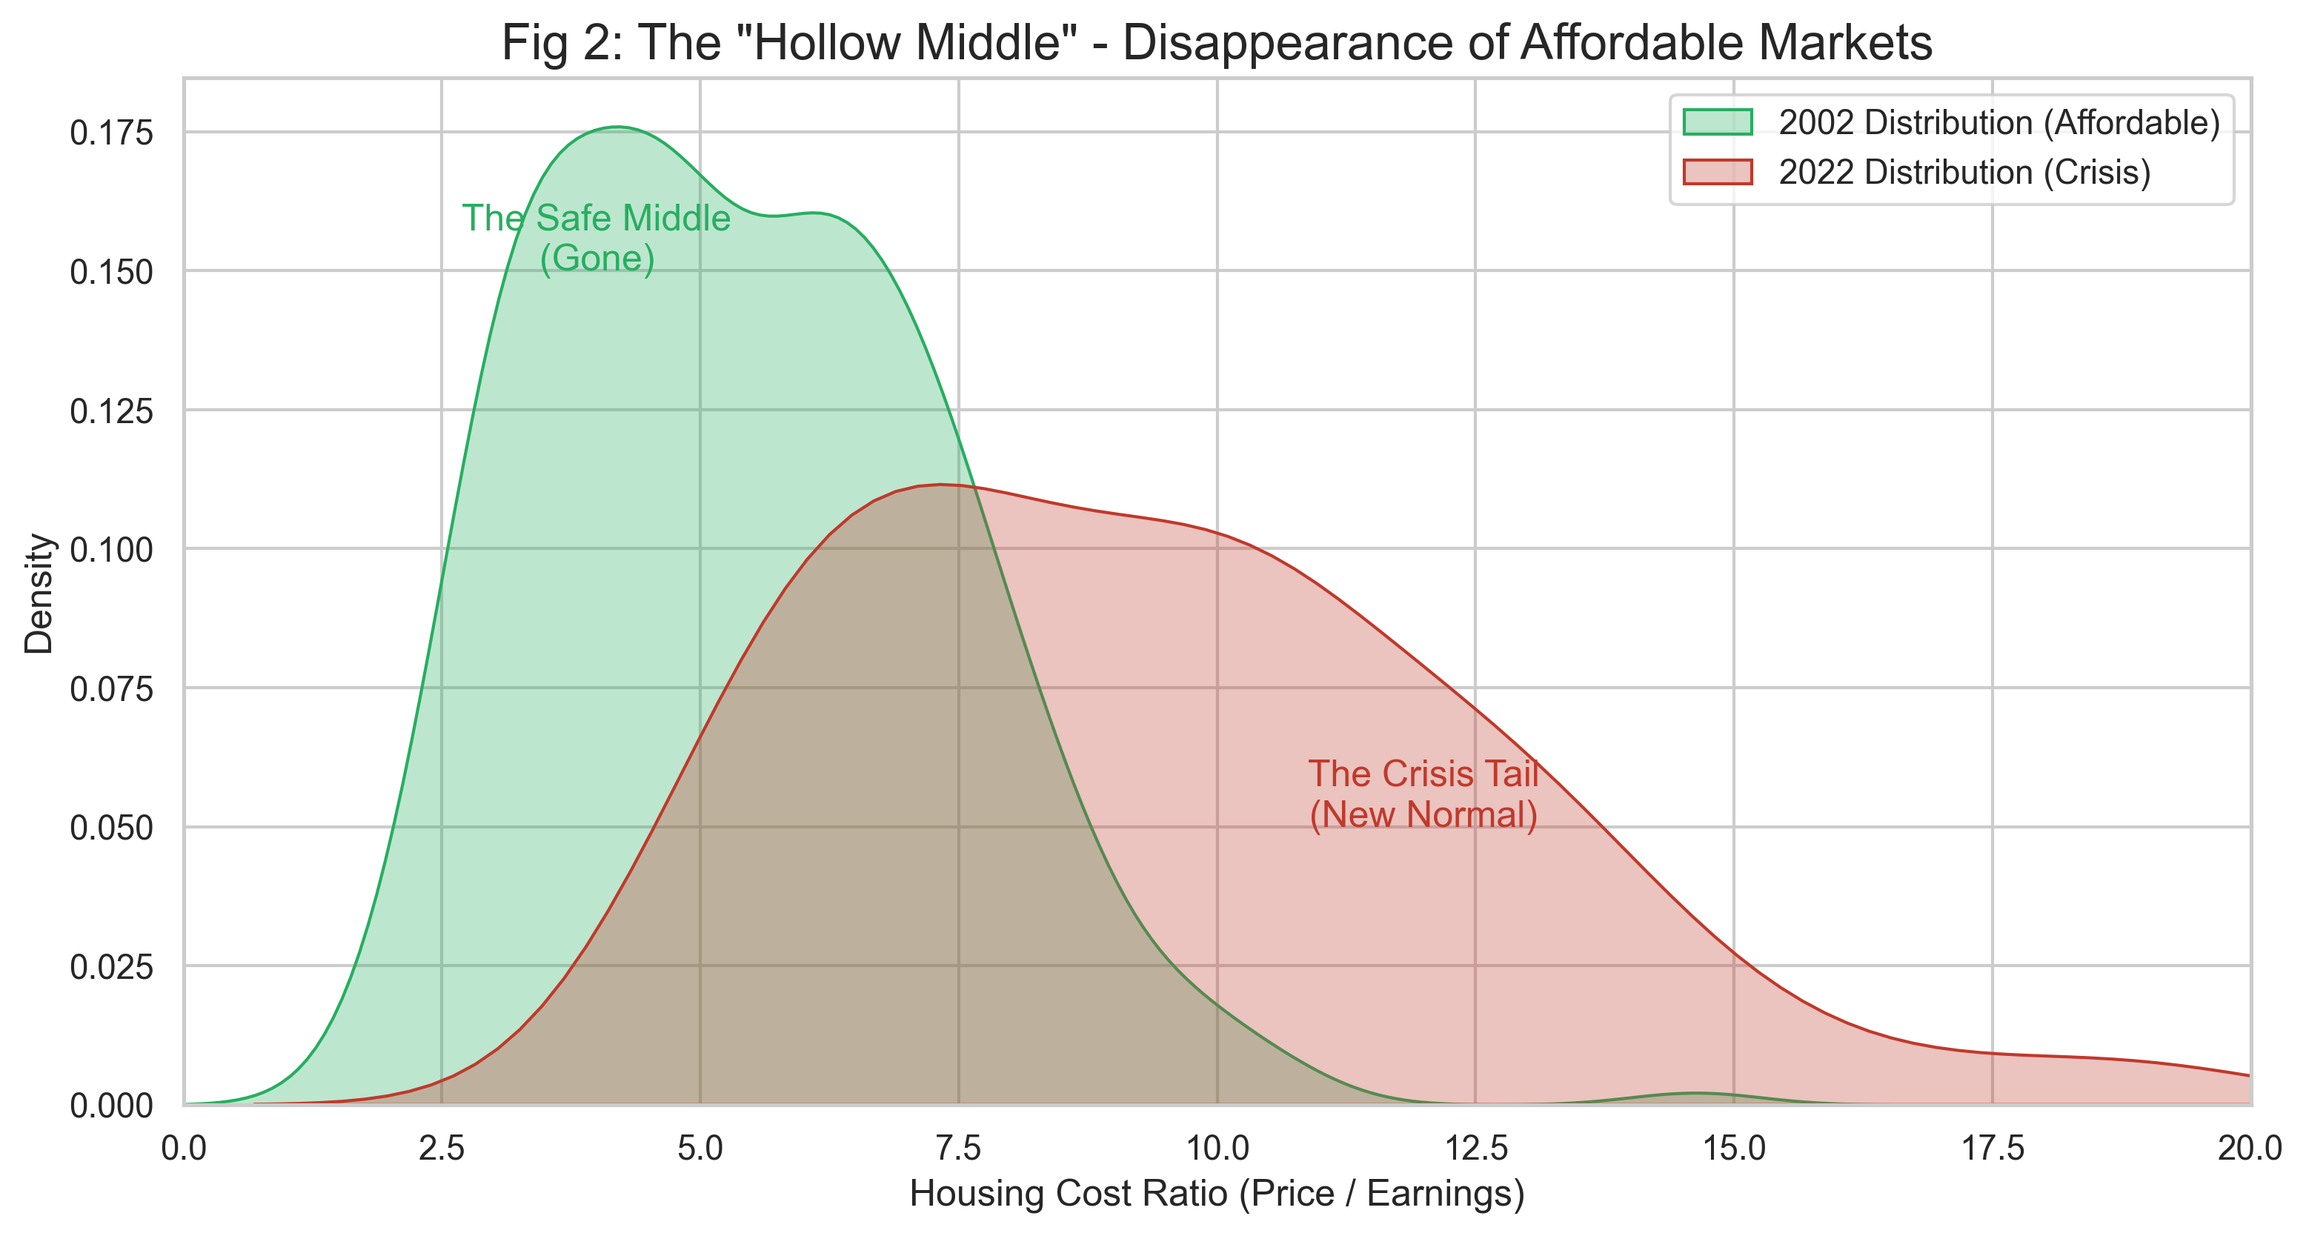
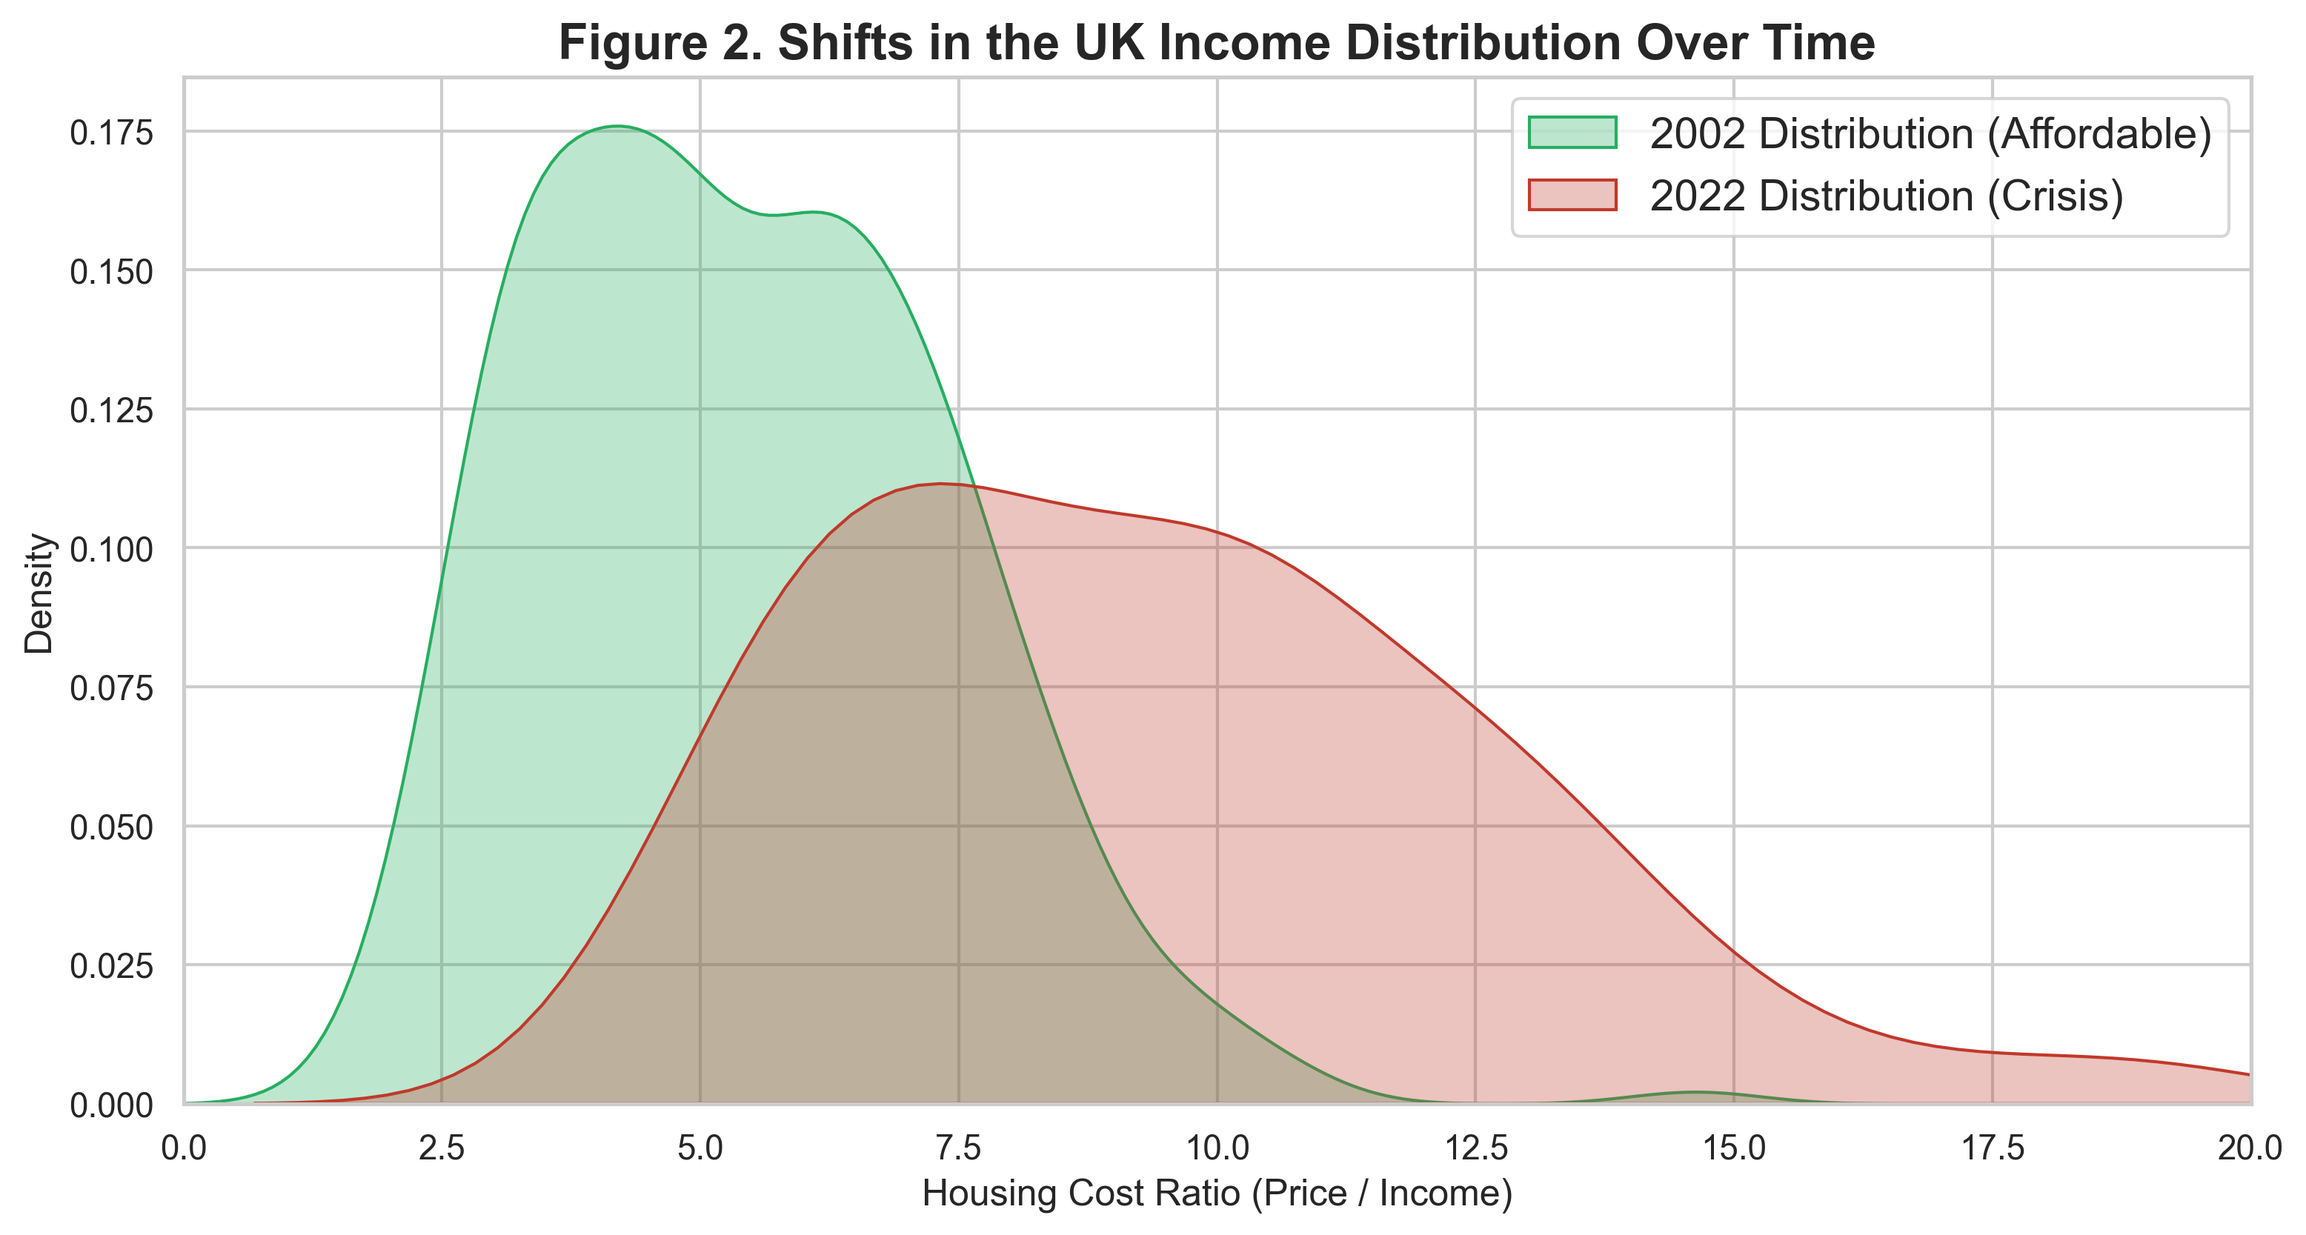
feat(visualisation): formatted and added gdp vs affordabiltiy graph

diff --git a/src/vis_3_map.py b/src/vis_3_map.py
@@ -6,6 +6,14 @@ from src.config import ProjectConfig
 class RealMapVisualizer:
     def run(self):
         config = ProjectConfig()
+        
+        # ---------------------------------------------------------
+        # UPDATED: Force ALL fonts to be bold globally
+        # ---------------------------------------------------------
+        plt.rcParams["font.weight"] = "bold"
+        plt.rcParams["axes.labelweight"] = "bold"
+        plt.rcParams["axes.titleweight"] = "bold"
+        
         print("--- generating real geospatial map (Full UK Fix) ---")
         
         # 1. Load Data
@@ -13,24 +21,15 @@ class RealMapVisualizer:
         latest = df[df['Year'] == df['Year'].max()].copy()
         
         # --- THE FIX: FILL MISSING DATA ---
-        # Identify regions with missing Housing Ratios (Scotland & NI)
-        # We fill them with the Median of the other regions to prevent "Grey Spots"
         median_ratio = latest['Ratio'].median()
-        
         if latest['Ratio'].isnull().any():
             print(f"Fixing missing housing data for: {latest[latest['Ratio'].isnull()]['Region'].unique()}")
             latest['Ratio'] = latest['Ratio'].fillna(median_ratio)
         
-        # Manually ensure Scotland and NI are present if they were dropped
-        # (Sometimes they get dropped if they aren't in the merged CSV at all)
-        # We check if 'Scotland' is in the Region column. If not, we can't plot it easily 
-        # unless we go back to data_processor. 
-        # But based on your previous logs, Income data HAD Scotland, so it should be in OUT_REGIONAL as NaN.
-        
         # Calculate Solvency
         latest['Solvency'] = latest['Income'] / latest['Ratio']
         
-        # 2. Map Download (Multi-part for safety)
+        # 2. Map Download
         urls = {
             "ew": "https://raw.githubusercontent.com/martinjc/UK-GeoJSON/master/json/eurostat/ew/nuts1.json",
             "sco": "https://raw.githubusercontent.com/martinjc/UK-GeoJSON/master/json/eurostat/sco/nuts1.json",
@@ -43,7 +42,7 @@ class RealMapVisualizer:
                 gdf_part = gpd.read_file(url)
                 gdfs.append(gdf_part)
             except Exception:
-                pass # skip if one fails
+                pass
         
         if not gdfs:
             print("CRITICAL: No map files. Check internet.")
@@ -51,11 +50,10 @@ class RealMapVisualizer:
 
         gdf = gpd.GeoDataFrame(pd.concat(gdfs, ignore_index=True))
         
-        # 3. Name Matching (The "Glue")
+        # 3. Name Matching
         gdf['clean_name'] = gdf['NUTS112NM'].str.lower().str.replace(r" \(.*\)", "", regex=True).str.strip()
         latest['clean_name'] = latest['Region'].str.lower().str.strip()
         
-        # Explicit Map to fix mismatch
         name_map = {
             'eastern': 'east of england',
             'yorkshire and the humber': 'yorkshire and the humber',
@@ -70,20 +68,26 @@ class RealMapVisualizer:
         # 5. Plot
         fig, ax = plt.subplots(1, 1, figsize=(10, 12))
         
-        # We fill missing values in the MAP (geometry) with the median solvency too
-        # just in case the merge missed a tiny edge case
         median_solvency = latest['Solvency'].median()
         merged['Solvency'] = merged['Solvency'].fillna(median_solvency)
         
         merged.plot(column='Solvency', ax=ax, legend=True,
                     cmap='RdYlGn', 
-                    edgecolor='black', # Add borders to make it pop
+                    edgecolor='black', 
                     linewidth=0.5,
-                    legend_kwds={'label': "Solvency Score (Income ÷ Housing Cost)", 
-                                 'orientation': "horizontal", 'shrink': 0.8})
+                    legend_kwds={
+                        'label': "Solvency Score (Income ÷ Housing Cost)", 
+                        'orientation': "horizontal", 
+                        'shrink': 0.8,
+                        'pad': 0.02,
+                        'fraction': 0.05,
+                       
+                    })
         
         ax.set_axis_off()
-        plt.title(f'Fig 3: UK Solvency Map\n(Full National Coverage)', fontsize=16)
+        
+        # Added fontweight='bold' explicitly here as well
+        plt.title(f'Figure 3. Regional Housing Affordability Across the UK', fontsize=20, fontweight='bold')
         
         save_path = config.FIGURES_DIR / "03_real_map.png"
         plt.savefig(save_path, dpi=300, bbox_inches='tight')

diff --git a/src/vis_1_gdp_ratio.py b/src/vis_1_gdp_ratio.py
@@ -42,17 +42,18 @@ class GdpRatioVisualizer:
         )
         
         # Labels
-        plt.title('The Cost of Growth: GDP vs Housing Affordability', fontsize=14, fontweight='bold', pad=20)
+        plt.title('Figure 1. GDP per Capita and Housing Affordability in the UK', fontsize=14, fontweight='bold', pad=20)
         plt.xlabel('Real GDP per Capita (£)', fontsize=12, fontweight='bold')
-        plt.ylabel('Housing Price to Earnings Ratio', fontsize=12, fontweight='bold')
+        plt.ylabel('Housing Price to Income Ratio', fontsize=12, fontweight='bold')
         
         # Stats Box
         stats_text = (
             f"Correlation ($r$): {r:.2f}\n"
             f"R-Squared: {r_squared:.2f}\n"
             f"P-Value: < 0.001"
+            
         )
-        plt.text(0.05, 0.95, stats_text, transform=ax.transAxes, fontsize=11,
+        plt.text(0.05, 0.95, stats_text, transform=ax.transAxes, fontsize=14,
                  verticalalignment='top', bbox=dict(boxstyle='round', facecolor='white', alpha=0.9, edgecolor='lightgrey'))
         
         # Annotate Years
@@ -62,14 +63,10 @@ class GdpRatioVisualizer:
         plt.text(max_pt['GDP_GBP'], max_pt['Ratio']-0.2, str(int(max_pt['Year'])), fontweight='bold', color=config.COLOR_GDP)
         
         plt.grid(True, linestyle='--', alpha=0.3)
-        plt.savefig(config.FIGURES_DIR / "07_gdp_ratio_scatter.png", dpi=300, bbox_inches='tight')
-        print("Saved Figure 7: GDP vs Ratio Scatter")
+        plt.savefig(config.FIGURES_DIR / "01_gdp_ratio_scatter.png", dpi=300, bbox_inches='tight')
+        print("Saved Figure 1: GDP vs Ratio Scatter")
 
-        # ==========================================
-        # FIGURE 8: DUAL AXIS TIME SERIES (The Divergence)
-        # ==========================================
-        # Since Ratio (e.g., 8.0) and GDP (e.g., £30,000) are different units,
-        # we MUST use a dual axis to compare the trends properly.
+       
         
         fig, ax1 = plt.subplots(figsize=(12, 7))
         sns.set_theme(style="whitegrid")
@@ -92,24 +89,12 @@ class GdpRatioVisualizer:
         
         plt.title('The Broken Link: Economic Growth vs Housing Difficulty', fontsize=16, fontweight='bold')
         
-        
-        plt.text(
-            latest['Survival_Score'].min(), 
-            len(latest) - 0.5, 
-            "Note: High Score = Good (Green)\nLow Score = Bad (Red)", 
-            fontsize=12, 
-            color='grey', 
-            style='italic',
-            bbox=dict(facecolor='white', alpha=0, edgecolor='none')
-        )
-        
         # Combined Legend
         lines_1, labels_1 = ax1.get_legend_handles_labels()
         lines_2, labels_2 = ax2.get_legend_handles_labels()
         ax1.legend(lines_1 + lines_2, labels_1 + labels_2, loc='upper left', fontsize=11)
         
-        plt.savefig(config.FIGURES_DIR / "08_gdp_ratio_time.png", dpi=300, bbox_inches='tight')
-        print("Saved Figure 8: GDP vs Ratio Time Series")
+        
 
 if __name__ == "__main__":
     GdpRatioVisualizer().run()

diff --git a/src/vis_4_regional_income.py b/src/vis_4_regional_income.py
@@ -1,0 +1,73 @@
+import matplotlib.pyplot as plt
+import seaborn as sns
+import pandas as pd
+from src.config import ProjectConfig
+
+class RegionalIncomeVisualizer:
+    def run(self):
+        config = ProjectConfig()
+        print("--- Generating Figure 4: Regional Income Trends (High Contrast) ---")
+        
+        # 1. Load Data
+        df = pd.read_csv(config.OUT_REGIONAL)
+        
+        # 2. Filter for Key Regions
+        target_regions = [
+            'London', 
+            'South East', 
+            'West Midlands', 
+            'North West', 
+            'North East'
+        ]
+        
+        subset = df[df['Region'].isin(target_regions)].copy()
+        
+        # 3. Plot Setup
+        plt.figure(figsize=(12, 7))
+        sns.set_theme(style="whitegrid")
+        
+        # 4. HIGH CONTRAST PALETTE
+        # Distinct colors so lines never blend together.
+        custom_palette = {
+            'London':        '#c0392b',  
+            'South East':    '#8e44ad',  
+            'West Midlands': '#f39c12',  
+            'North West':    '#27ae60',  
+            'North East':    "#2b41c0"   
+        }
+        
+        sns.lineplot(
+            data=subset, 
+            x='Year', 
+            y='Income', 
+            hue='Region', 
+            palette=custom_palette, 
+            linewidth=3
+        )
+        
+        # 5. Styling & Annotations
+        plt.title('Figure 4. Real Household Disposable Income per Head by Region (1997–2023)', 
+                 fontsize=14, fontweight='bold', pad=20)
+        plt.ylabel('Average Disposable Income (£)', fontsize=12, fontweight='bold')
+        plt.xlabel('Year', fontsize=12, fontweight='bold')
+        
+        # Highlight the Gap at the end
+        latest_year = subset['Year'].max()
+        london_val = subset[(subset['Region'] == 'London') & (subset['Year'] == latest_year)]['Income'].values[0]
+        ne_val = subset[(subset['Region'] == 'North East') & (subset['Year'] == latest_year)]['Income'].values[0]
+        gap = london_val - ne_val
+        
+        # Draw a line showing the gap
+        plt.plot([latest_year, latest_year], [ne_val, london_val], color='grey', linestyle=':', alpha=0)
+        plt.text(latest_year + 0.5, (london_val + ne_val)/2, f"", 
+                 color='grey', fontweight='bold', ha='left', va='center')
+
+        # Legend outside to prevent clutter
+        plt.legend(title='Region', loc='upper left', frameon=True, framealpha=0.9, fontsize=14)
+        
+        # 6. Save
+        plt.savefig(config.FIGURES_DIR / "04_regional_income_trend.png", dpi=300, bbox_inches='tight')
+        print("Saved Figure 4: Regional Income Trend (Distinct Colors)")
+
+if __name__ == "__main__":
+    RegionalIncomeVisualizer().run()

diff --git a/src/vis_6_snapshot_regions.py b/src/vis_6_snapshot_regions.py
@@ -1,0 +1,79 @@
+import matplotlib.pyplot as plt
+import pandas as pd
+from src.config import ProjectConfig
+
+class TableSnapshotVisualizer:
+    def run(self):
+        config = ProjectConfig()
+        
+        # 1. Setup the 2023 Data
+        # I've sorted these by Income (descending) to match your screenshot's logic
+        data = {
+            'Region': [
+                'London', 
+                'South East', 
+                'East of England',
+                'South West', 
+                'Scotland',
+                'East Midlands', 
+                'North West', 
+                'West Midlands', 
+                'Yorkshire and The Humber', 
+                'Northern Ireland',
+                'Wales', 
+                'North East'
+            ],
+            'Income': [
+                '£35,361', '£28,187', '£25,732', '£24,854', 
+                '£22,908', '£21,656', '£21,543', '£21,141', 
+                '£21,027', '£20,403', '£20,140', '£19,977'
+            ],
+            'Ratio': [
+                12.5, 9.6, 9.2, 8.8, 
+                5.6, 7.4, 6.6, 7.9, 
+                6.4, 5.0, 6.1, 4.9
+            ]
+        }
+        
+        df = pd.DataFrame(data)
+
+        # 2. Create the Table Plot
+        # We use a figure size that fits a table (taller/narrower)
+        plt.figure(figsize=(8, 6))
+        
+        # Remove the graph axes (we just want the table)
+        ax = plt.gca()
+        ax.axis('off')
+        
+        # Create the table
+        # cellLoc='center' centers the text
+        # loc='center' puts the table in the middle of the image
+        table = plt.table(
+            cellText=df.values,
+            colLabels=df.columns,
+            cellLoc='center',
+            loc='center',
+            bbox=[0, 0, 1, 1] # This stretches the table to fill the figure
+        )
+
+        # 3. Styling to match your screenshot
+        table.auto_set_font_size(False)
+        table.set_fontsize(12)
+        
+        # Make the header row bold and slightly larger (optional, purely for looks)
+        for (row, col), cell in table.get_celld().items():
+            if row == 0:
+                cell.set_text_props(weight='bold', size=13)
+                cell.set_height(0.08) # Header height
+            else:
+                cell.set_height(0.06) # Row height
+
+        plt.title('Appendix B: 2023 Regional Data Snapshot', fontsize=14, y=1.02)
+        
+        # 4. Save
+        output_path = config.FIGURES_DIR / "06_regions_table_2023.png"
+        plt.savefig(output_path, dpi=300, bbox_inches='tight')
+        print(f"Saved table to {output_path}")
+
+if __name__ == "__main__":
+    TableSnapshotVisualizer().run()

diff --git a/src/vis_2_hollow.py b/src/vis_2_hollow.py
@@ -9,19 +9,20 @@ class HollowVisualizer:
         df = pd.read_csv(config.OUT_LA)
         
         plt.figure(figsize=(12, 6))
+        plt.rcParams["axes.titleweight"] = "bold"
         sns.set_theme(style="whitegrid")
         
-        # comparing 2002 (the good old days) vs 2022 (now)
+        # comparing 2002 vs 2022 
         sns.kdeplot(data=df[df['Year'] == 2002], x='Ratio', color=config.COLOR_GOOD, fill=True, alpha=0.3, label='2002 Distribution (Affordable)')
         sns.kdeplot(data=df[df['Year'] == 2022], x='Ratio', color=config.COLOR_BAD, fill=True, alpha=0.3, label='2022 Distribution (Crisis)')
         
-        plt.title('Fig 2: The "Hollow Middle" - Disappearance of Affordable Markets', fontsize=16)
-        plt.xlabel('Housing Cost Ratio (Price / Earnings)')
+        plt.title('Figure 2. Shifts in the UK Income Distribution Over Time', fontsize=16)
+        plt.xlabel('Housing Cost Ratio (Price / Income)')
         plt.xlim(0, 20)
-        plt.legend()
+        plt.legend(fontsize=14)
         
-        plt.text(4, 0.15, "The Safe Middle\n(Gone)", color=config.COLOR_GOOD, ha='center')
-        plt.text(12, 0.05, "The Crisis Tail\n(New Normal)", color=config.COLOR_BAD, ha='center')
+        plt.text(4, 0.15, "", color=config.COLOR_GOOD, ha='center')
+        plt.text(12, 0.05, "", color=config.COLOR_BAD, ha='center')
         
         plt.savefig(config.FIGURES_DIR / "02_hollow_middle.png", dpi=300, bbox_inches='tight')
         print("saved fig 2")

diff --git a/src/vis_5_spectrum.py b/src/vis_5_spectrum.py
@@ -29,7 +29,7 @@ class SpectrumVisualizer:
         )
         
         # 2. FIXED FONTS: Much larger for readability
-        plt.title('Figure 6: The Survival Spectrum', fontsize=18, fontweight='bold', pad=20)
+        plt.title('Figure 5: The Survival Spectrum', fontsize=18, fontweight='bold', pad=20)
         plt.xlabel('Consumer Solvency Score (Income ÷ Housing Cost)', fontsize=14, fontweight='bold')
         plt.ylabel('', fontsize=12) # Hide Y label, the names are obvious
         
@@ -39,8 +39,8 @@ class SpectrumVisualizer:
         
         
         
-        plt.savefig(config.FIGURES_DIR / "06_survival_spectrum.png", dpi=300, bbox_inches='tight')
-        print("Saved fig 6 (Fixed Colors & Fonts)")
+        plt.savefig(config.FIGURES_DIR / "05_survival_spectrum.png", dpi=300, bbox_inches='tight')
+        print("Saved fig 5 (Fixed Colors & Fonts)")
 
 if __name__ == "__main__":
     SpectrumVisualizer().run()

diff --git a/run_workflow.py b/run_workflow.py
@@ -1,9 +1,12 @@
 from src.data_processor import DataProcessor
+from src.vis_1_gdp_ratio import GdpRatioVisualizer
 from src.vis_2_hollow import HollowVisualizer
 from src.vis_3_map import RealMapVisualizer
-from src.vis_6_spectrum import SpectrumVisualizer
-from src.vis_gdp_ratio import GdpRatioVisualizer
-from src.vis_wallet_squeeze import WalletSqueezeVisualizer
+from src.vis_5_spectrum import SpectrumVisualizer
+from src.vis_4_regional_income import RegionalIncomeVisualizer
+from src.vis_6_snapshot_regions import TableSnapshotVisualizer
+
+
 
 if __name__ == "__main__":
     print("=== starting real money pipeline ===")
@@ -14,6 +17,7 @@ if __name__ == "__main__":
     RealMapVisualizer().run()
     SpectrumVisualizer().run()
     GdpRatioVisualizer().run()
-    WalletSqueezeVisualizer().run()
+    RegionalIncomeVisualizer().run()
+    TableSnapshotVisualizer().run()
     
     print("=== pipeline complete ===")

diff --git a/src/config.py b/src/config.py
@@ -31,4 +31,6 @@ class ProjectConfig:
         self.COLOR_BAD = '#c0392b'
         self.COLOR_INCOME = '#e67e22' 
         self.COLOR_HOUSING = '#c0392b' 
+        self.COLOR_NEUTRAL = "#7f7f7f"
+        
         
